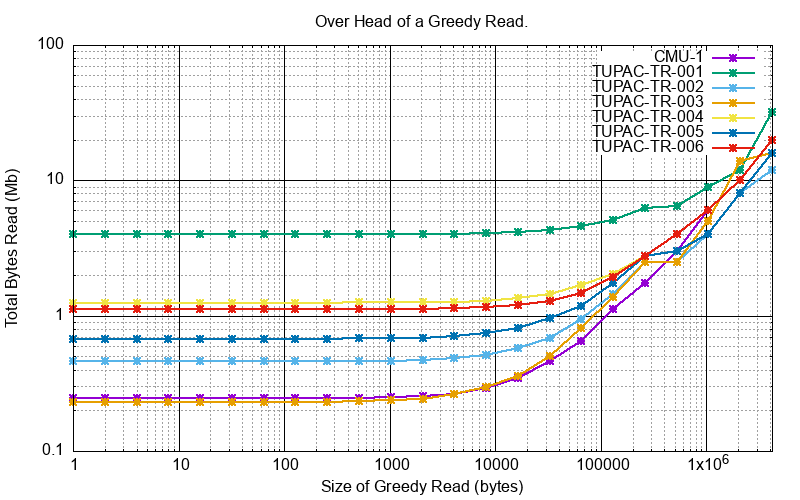
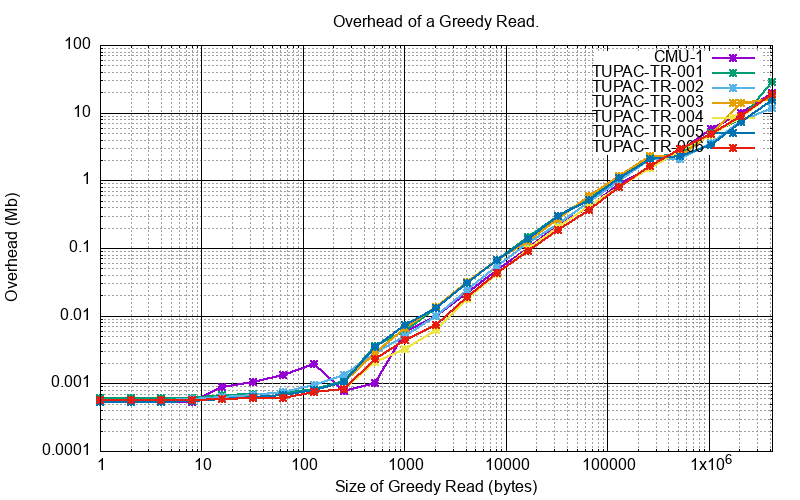
Better tech notes documentation on time/memory trade off.

diff --git a/docs/Sphinx/source/ref/doxygen/doxygen_html/sim__examples_8py_source.html b/docs/Sphinx/source/ref/doxygen/doxygen_html/sim__examples_8py_source.html
@@ -784,14 +784,14 @@ $(function() {
 <div class="line"><a name="l00711"></a><span class="lineno"><a class="line" href="namespacesrc_1_1cpy_1_1sim__examples.html#a9c5cac1b6ba6c8d864e3b90497322270">  711</a></span>&#160;EXAMPLE_FILE_POSITIONS_LENGTHS_TUPAC_TR_006_svs_SIZE = 991198013</div>
 <div class="line"><a name="l00712"></a><span class="lineno">  712</span>&#160; </div>
 <div class="line"><a name="l00713"></a><span class="lineno"><a class="line" href="namespacesrc_1_1cpy_1_1sim__examples.html#aaf68364bd72a456629b206fba51df804">  713</a></span>&#160;EXAMPLE_FILE_POSITIONS_LENGTHS = {</div>
-<div class="line"><a name="l00714"></a><span class="lineno">  714</span>&#160;    <span class="comment"># &#39;EXAMPLE_FILE_POSITIONS_LENGTHS_SYNTHETIC&#39;: EXAMPLE_FILE_POSITIONS_LENGTHS_SYNTHETIC,</span></div>
+<div class="line"><a name="l00714"></a><span class="lineno">  714</span>&#160;    <span class="stringliteral">&#39;EXAMPLE_FILE_POSITIONS_LENGTHS_SYNTHETIC&#39;</span>: EXAMPLE_FILE_POSITIONS_LENGTHS_SYNTHETIC,</div>
 <div class="line"><a name="l00715"></a><span class="lineno">  715</span>&#160;    <span class="stringliteral">&#39;EXAMPLE_FILE_POSITIONS_LENGTHS_TIFF_CMU_1&#39;</span>: EXAMPLE_FILE_POSITIONS_LENGTHS_TIFF_CMU_1,</div>
-<div class="line"><a name="l00716"></a><span class="lineno">  716</span>&#160;    <span class="comment"># &#39;EXAMPLE_FILE_POSITIONS_LENGTHS_TUPAC_TR_001_svs&#39;: EXAMPLE_FILE_POSITIONS_LENGTHS_TUPAC_TR_001_svs,</span></div>
-<div class="line"><a name="l00717"></a><span class="lineno">  717</span>&#160;    <span class="comment"># &#39;EXAMPLE_FILE_POSITIONS_LENGTHS_TUPAC_TR_002_svs&#39;: EXAMPLE_FILE_POSITIONS_LENGTHS_TUPAC_TR_002_svs,</span></div>
-<div class="line"><a name="l00718"></a><span class="lineno">  718</span>&#160;    <span class="comment"># &#39;EXAMPLE_FILE_POSITIONS_LENGTHS_TUPAC_TR_003_svs&#39;: EXAMPLE_FILE_POSITIONS_LENGTHS_TUPAC_TR_003_svs,</span></div>
-<div class="line"><a name="l00719"></a><span class="lineno">  719</span>&#160;    <span class="comment"># &#39;EXAMPLE_FILE_POSITIONS_LENGTHS_TUPAC_TR_004_svs&#39;: EXAMPLE_FILE_POSITIONS_LENGTHS_TUPAC_TR_004_svs,</span></div>
-<div class="line"><a name="l00720"></a><span class="lineno">  720</span>&#160;    <span class="comment"># &#39;EXAMPLE_FILE_POSITIONS_LENGTHS_TUPAC_TR_005_svs&#39;: EXAMPLE_FILE_POSITIONS_LENGTHS_TUPAC_TR_005_svs,</span></div>
-<div class="line"><a name="l00721"></a><span class="lineno">  721</span>&#160;    <span class="comment"># &#39;EXAMPLE_FILE_POSITIONS_LENGTHS_TUPAC_TR_006_svs&#39;: EXAMPLE_FILE_POSITIONS_LENGTHS_TUPAC_TR_006_svs,</span></div>
+<div class="line"><a name="l00716"></a><span class="lineno">  716</span>&#160;    <span class="stringliteral">&#39;EXAMPLE_FILE_POSITIONS_LENGTHS_TUPAC_TR_001_svs&#39;</span>: EXAMPLE_FILE_POSITIONS_LENGTHS_TUPAC_TR_001_svs,</div>
+<div class="line"><a name="l00717"></a><span class="lineno">  717</span>&#160;    <span class="stringliteral">&#39;EXAMPLE_FILE_POSITIONS_LENGTHS_TUPAC_TR_002_svs&#39;</span>: EXAMPLE_FILE_POSITIONS_LENGTHS_TUPAC_TR_002_svs,</div>
+<div class="line"><a name="l00718"></a><span class="lineno">  718</span>&#160;    <span class="stringliteral">&#39;EXAMPLE_FILE_POSITIONS_LENGTHS_TUPAC_TR_003_svs&#39;</span>: EXAMPLE_FILE_POSITIONS_LENGTHS_TUPAC_TR_003_svs,</div>
+<div class="line"><a name="l00719"></a><span class="lineno">  719</span>&#160;    <span class="stringliteral">&#39;EXAMPLE_FILE_POSITIONS_LENGTHS_TUPAC_TR_004_svs&#39;</span>: EXAMPLE_FILE_POSITIONS_LENGTHS_TUPAC_TR_004_svs,</div>
+<div class="line"><a name="l00720"></a><span class="lineno">  720</span>&#160;    <span class="stringliteral">&#39;EXAMPLE_FILE_POSITIONS_LENGTHS_TUPAC_TR_005_svs&#39;</span>: EXAMPLE_FILE_POSITIONS_LENGTHS_TUPAC_TR_005_svs,</div>
+<div class="line"><a name="l00721"></a><span class="lineno">  721</span>&#160;    <span class="stringliteral">&#39;EXAMPLE_FILE_POSITIONS_LENGTHS_TUPAC_TR_006_svs&#39;</span>: EXAMPLE_FILE_POSITIONS_LENGTHS_TUPAC_TR_006_svs,</div>
 <div class="line"><a name="l00722"></a><span class="lineno">  722</span>&#160;}</div>
 <div class="line"><a name="l00723"></a><span class="lineno">  723</span>&#160; </div>
 <div class="line"><a name="l00724"></a><span class="lineno"><a class="line" href="namespacesrc_1_1cpy_1_1sim__examples.html#aaef8a6ea8c5a7fc1d92ea6ea6e74ed53">  724</a></span>&#160;EXAMPLE_FILE_POSITIONS_SIZES = {</div>

diff --git a/docs/Sphinx/source/ref/doxygen/doxygen_html/namespacesrc_1_1cpy_1_1sim__examples.html b/docs/Sphinx/source/ref/doxygen/doxygen_html/namespacesrc_1_1cpy_1_1sim__examples.html
@@ -191,14 +191,14 @@ SOFTWARE.
       </table>
 </div><div class="memdoc">
 <b>Initial value:</b><div class="fragment"><div class="line"><a name="l00001"></a><span class="lineno">    1</span>&#160;=  {</div>
-<div class="line"><a name="l00002"></a><span class="lineno">    2</span>&#160;    <span class="comment"># &#39;EXAMPLE_FILE_POSITIONS_LENGTHS_SYNTHETIC&#39;: EXAMPLE_FILE_POSITIONS_LENGTHS_SYNTHETIC,</span></div>
+<div class="line"><a name="l00002"></a><span class="lineno">    2</span>&#160;    <span class="stringliteral">&#39;EXAMPLE_FILE_POSITIONS_LENGTHS_SYNTHETIC&#39;</span>: EXAMPLE_FILE_POSITIONS_LENGTHS_SYNTHETIC,</div>
 <div class="line"><a name="l00003"></a><span class="lineno">    3</span>&#160;    <span class="stringliteral">&#39;EXAMPLE_FILE_POSITIONS_LENGTHS_TIFF_CMU_1&#39;</span>: EXAMPLE_FILE_POSITIONS_LENGTHS_TIFF_CMU_1,</div>
-<div class="line"><a name="l00004"></a><span class="lineno">    4</span>&#160;    <span class="comment"># &#39;EXAMPLE_FILE_POSITIONS_LENGTHS_TUPAC_TR_001_svs&#39;: EXAMPLE_FILE_POSITIONS_LENGTHS_TUPAC_TR_001_svs,</span></div>
-<div class="line"><a name="l00005"></a><span class="lineno">    5</span>&#160;    <span class="comment"># &#39;EXAMPLE_FILE_POSITIONS_LENGTHS_TUPAC_TR_002_svs&#39;: EXAMPLE_FILE_POSITIONS_LENGTHS_TUPAC_TR_002_svs,</span></div>
-<div class="line"><a name="l00006"></a><span class="lineno">    6</span>&#160;    <span class="comment"># &#39;EXAMPLE_FILE_POSITIONS_LENGTHS_TUPAC_TR_003_svs&#39;: EXAMPLE_FILE_POSITIONS_LENGTHS_TUPAC_TR_003_svs,</span></div>
-<div class="line"><a name="l00007"></a><span class="lineno">    7</span>&#160;    <span class="comment"># &#39;EXAMPLE_FILE_POSITIONS_LENGTHS_TUPAC_TR_004_svs&#39;: EXAMPLE_FILE_POSITIONS_LENGTHS_TUPAC_TR_004_svs,</span></div>
-<div class="line"><a name="l00008"></a><span class="lineno">    8</span>&#160;    <span class="comment"># &#39;EXAMPLE_FILE_POSITIONS_LENGTHS_TUPAC_TR_005_svs&#39;: EXAMPLE_FILE_POSITIONS_LENGTHS_TUPAC_TR_005_svs,</span></div>
-<div class="line"><a name="l00009"></a><span class="lineno">    9</span>&#160;    <span class="comment"># &#39;EXAMPLE_FILE_POSITIONS_LENGTHS_TUPAC_TR_006_svs&#39;: EXAMPLE_FILE_POSITIONS_LENGTHS_TUPAC_TR_006_svs,</span></div>
+<div class="line"><a name="l00004"></a><span class="lineno">    4</span>&#160;    <span class="stringliteral">&#39;EXAMPLE_FILE_POSITIONS_LENGTHS_TUPAC_TR_001_svs&#39;</span>: EXAMPLE_FILE_POSITIONS_LENGTHS_TUPAC_TR_001_svs,</div>
+<div class="line"><a name="l00005"></a><span class="lineno">    5</span>&#160;    <span class="stringliteral">&#39;EXAMPLE_FILE_POSITIONS_LENGTHS_TUPAC_TR_002_svs&#39;</span>: EXAMPLE_FILE_POSITIONS_LENGTHS_TUPAC_TR_002_svs,</div>
+<div class="line"><a name="l00006"></a><span class="lineno">    6</span>&#160;    <span class="stringliteral">&#39;EXAMPLE_FILE_POSITIONS_LENGTHS_TUPAC_TR_003_svs&#39;</span>: EXAMPLE_FILE_POSITIONS_LENGTHS_TUPAC_TR_003_svs,</div>
+<div class="line"><a name="l00007"></a><span class="lineno">    7</span>&#160;    <span class="stringliteral">&#39;EXAMPLE_FILE_POSITIONS_LENGTHS_TUPAC_TR_004_svs&#39;</span>: EXAMPLE_FILE_POSITIONS_LENGTHS_TUPAC_TR_004_svs,</div>
+<div class="line"><a name="l00008"></a><span class="lineno">    8</span>&#160;    <span class="stringliteral">&#39;EXAMPLE_FILE_POSITIONS_LENGTHS_TUPAC_TR_005_svs&#39;</span>: EXAMPLE_FILE_POSITIONS_LENGTHS_TUPAC_TR_005_svs,</div>
+<div class="line"><a name="l00009"></a><span class="lineno">    9</span>&#160;    <span class="stringliteral">&#39;EXAMPLE_FILE_POSITIONS_LENGTHS_TUPAC_TR_006_svs&#39;</span>: EXAMPLE_FILE_POSITIONS_LENGTHS_TUPAC_TR_006_svs,</div>
 <div class="line"><a name="l00010"></a><span class="lineno">   10</span>&#160;}</div>
 </div><!-- fragment -->
 <p class="definition">Definition at line <a class="el" href="sim__examples_8py_source.html#l00713">713</a> of file <a class="el" href="sim__examples_8py_source.html">sim_examples.py</a>.</p>

diff --git a/docs/Sphinx/source/tech_notes.rst b/docs/Sphinx/source/tech_notes.rst
@@ -275,16 +275,22 @@ for different ``greedy_length`` values.
 
 .. image:: ../../plots/images/py_sim_greedy_hits_misses.png
 
+The Additional Overhead of Greedy Reads
+^^^^^^^^^^^^^^^^^^^^^^^^^^^^^^^^^^^^^^^^^
+
 The minor drawback is that more bytes are read than strictly necessary.
 For example with CMU-1.tiff and ``greedy_length=0`` the minimal byte set is
 256,566 bytes total. With a ``greedy_length=131,072`` the total number of bytes read is 1,179,648.
 This is about 4x the minimal read but still about 1/200 of the original file.
 
-Here are examples off the total amount of data read for different ``greedy_length`` values:
-
-.. note:: Linear scale
+Here are examples off the extra overhead of greedy reads for different ``greedy_length`` values.
+The y axis shows the additional, strictly unnecessary, memory used by the SVF:
 
 .. image:: ../../plots/images/py_sim_greedy_overhead.png
+
+These data examples will help a user to tune the SVF balancing the tradeoffs of speed and memory usage (selected data):
+
+.. image:: ../../plots/images/py_sim_greedy_overhead_cf_time.png
 
 A Comparison Against a Local File Read
 ^^^^^^^^^^^^^^^^^^^^^^^^^^^^^^^^^^^^^^^^^
